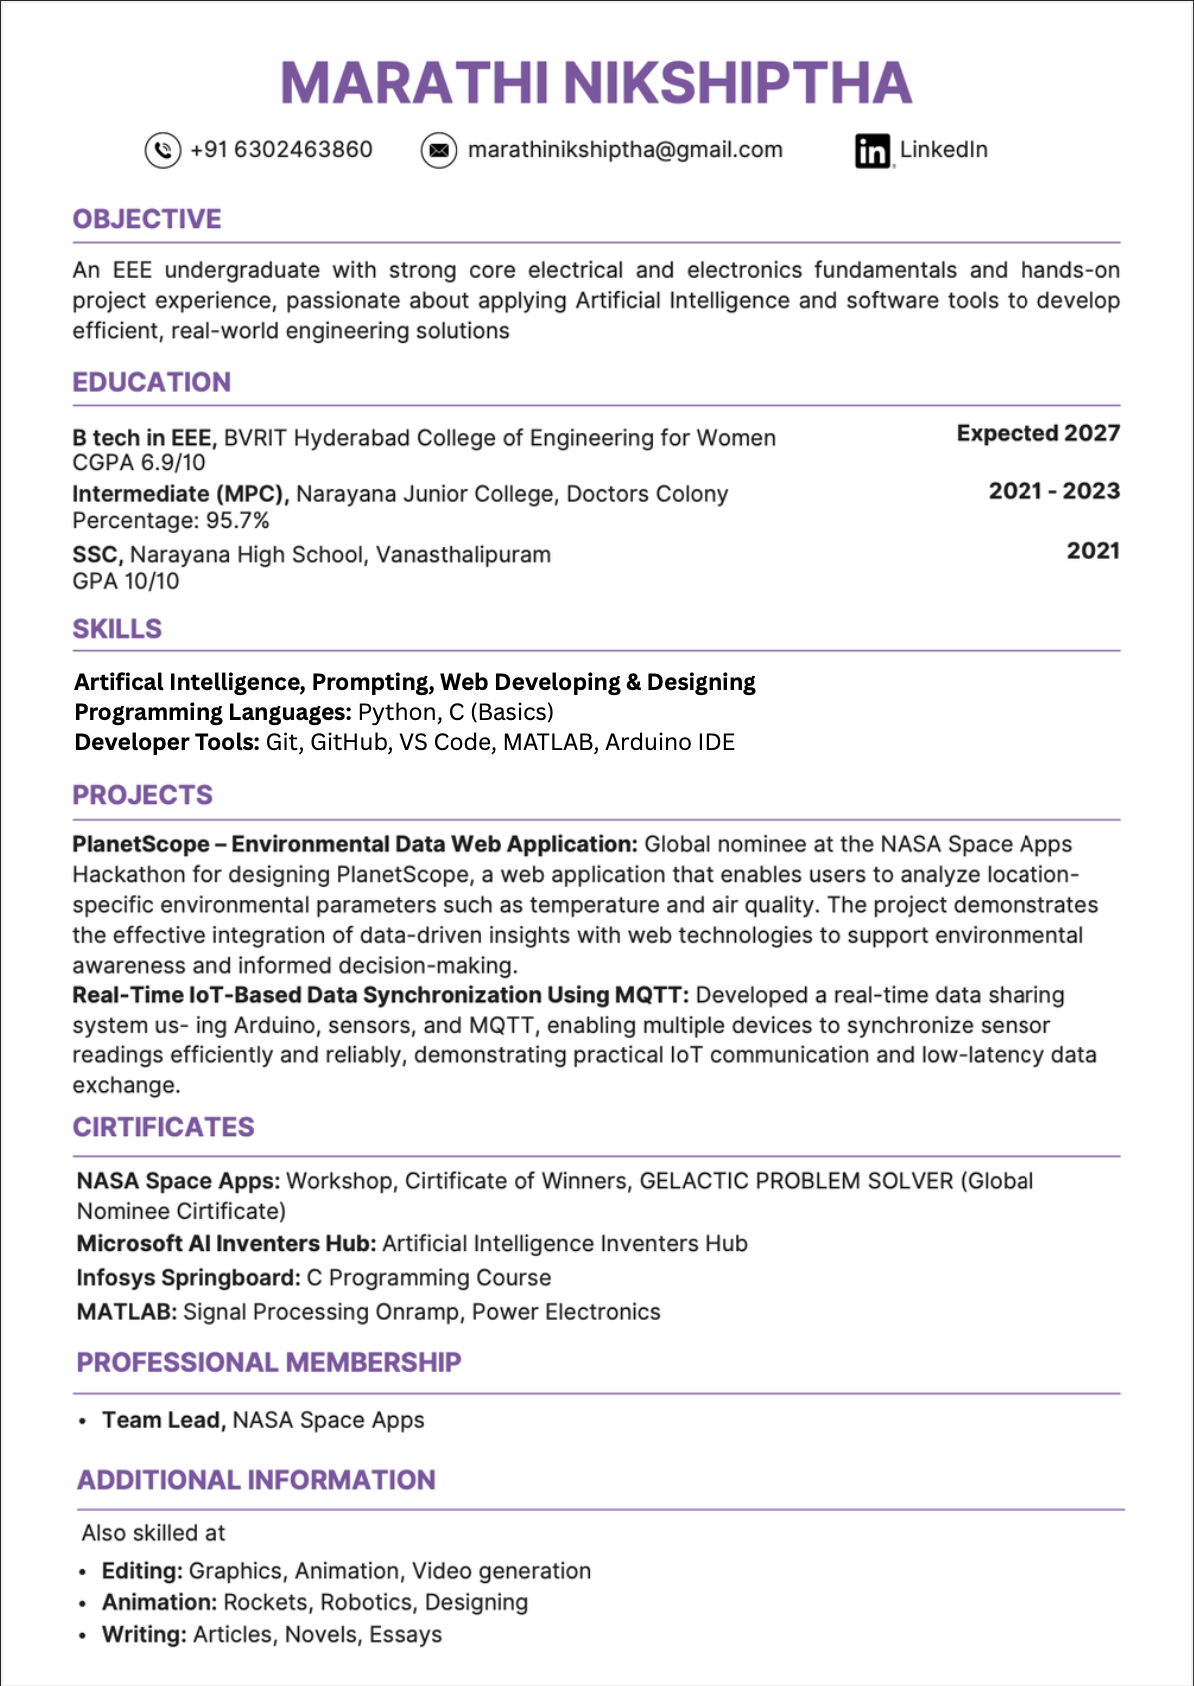
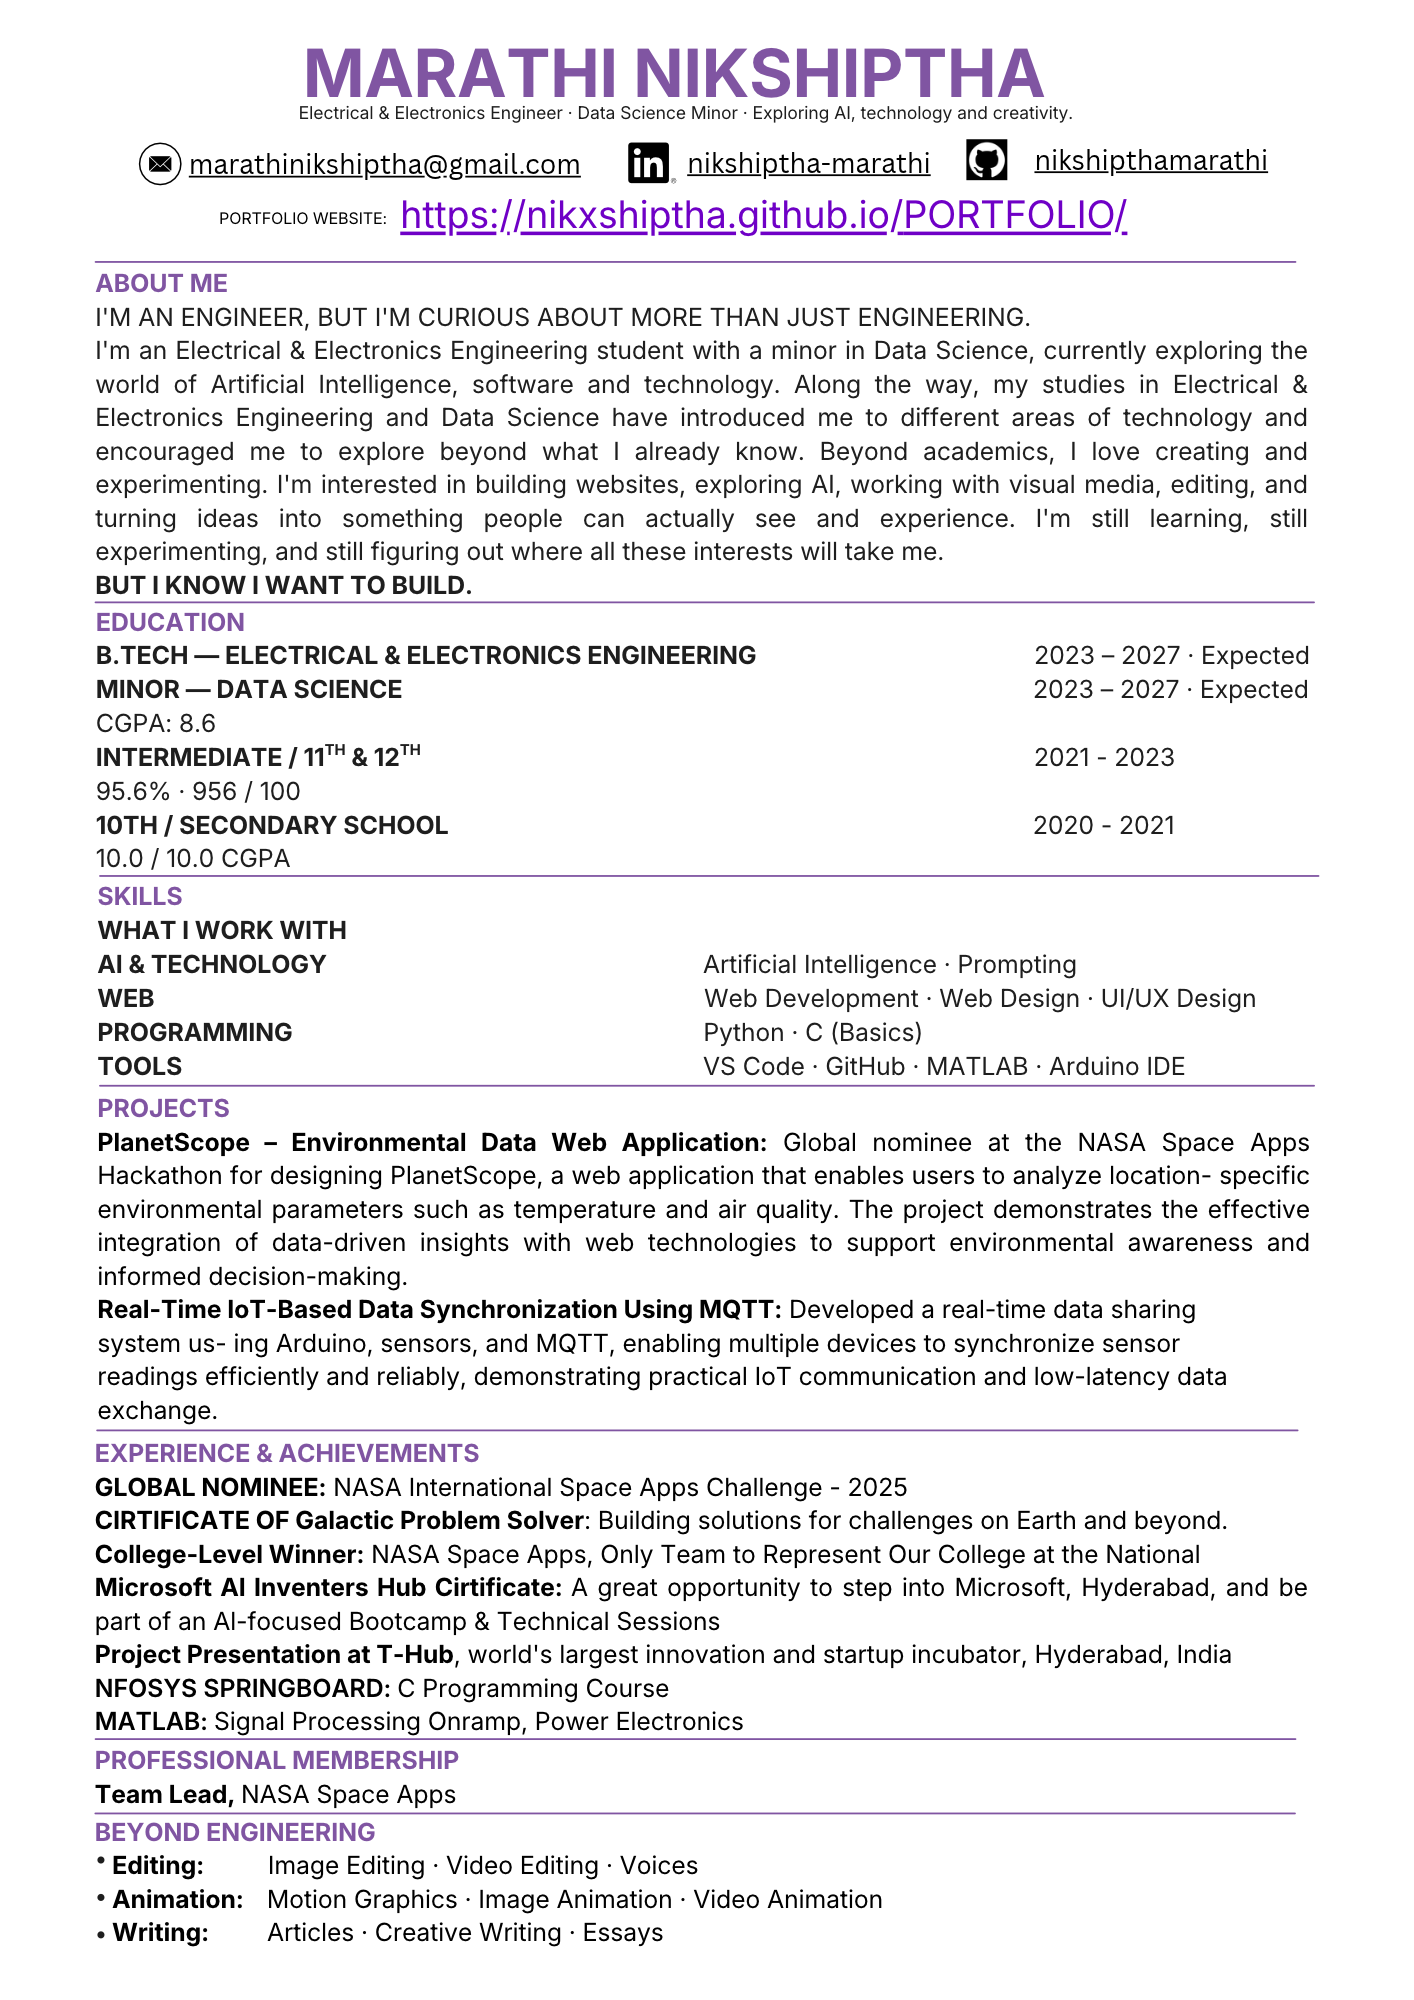
Add files via upload

Changed region(s): [[0.062, 0.0, 0.9606, 0.987], [0.9916, 0.0, 1.0, 0.0308]]

diff --git a/index.html b/index.html
@@ -346,7 +346,7 @@
         <button id="closeResumeBtn" class="absolute top-5 right-6 text-white text-2xl hover:text-slate-300 transition-colors pointer-events-auto bg-black/60 px-3 py-1.5 rounded-full border border-white/20">
             <i class="fa-solid fa-xmark"></i>
         </button>
-        <img src="resume.png" alt="Resume Display">
+        <img src="RESUME.png" alt="Resume Display">
     </div>
 
     <!-- TOP-LEFT THREE LINES (HAMBURGER) OPTIONS BUTTON -->
@@ -474,7 +474,7 @@
         <!-- REEL 06: SUIT5.mp4 (ACHIEVEMENTS) -->
         <section class="reel-section">
             <video class="reel-video" muted loop playsinline preload="auto">
-                <source src="SUIT5.mp4" type="video/mp4">
+                <source src="suit5.mp4" type="video/mp4">
             </video>
         </section>
 
